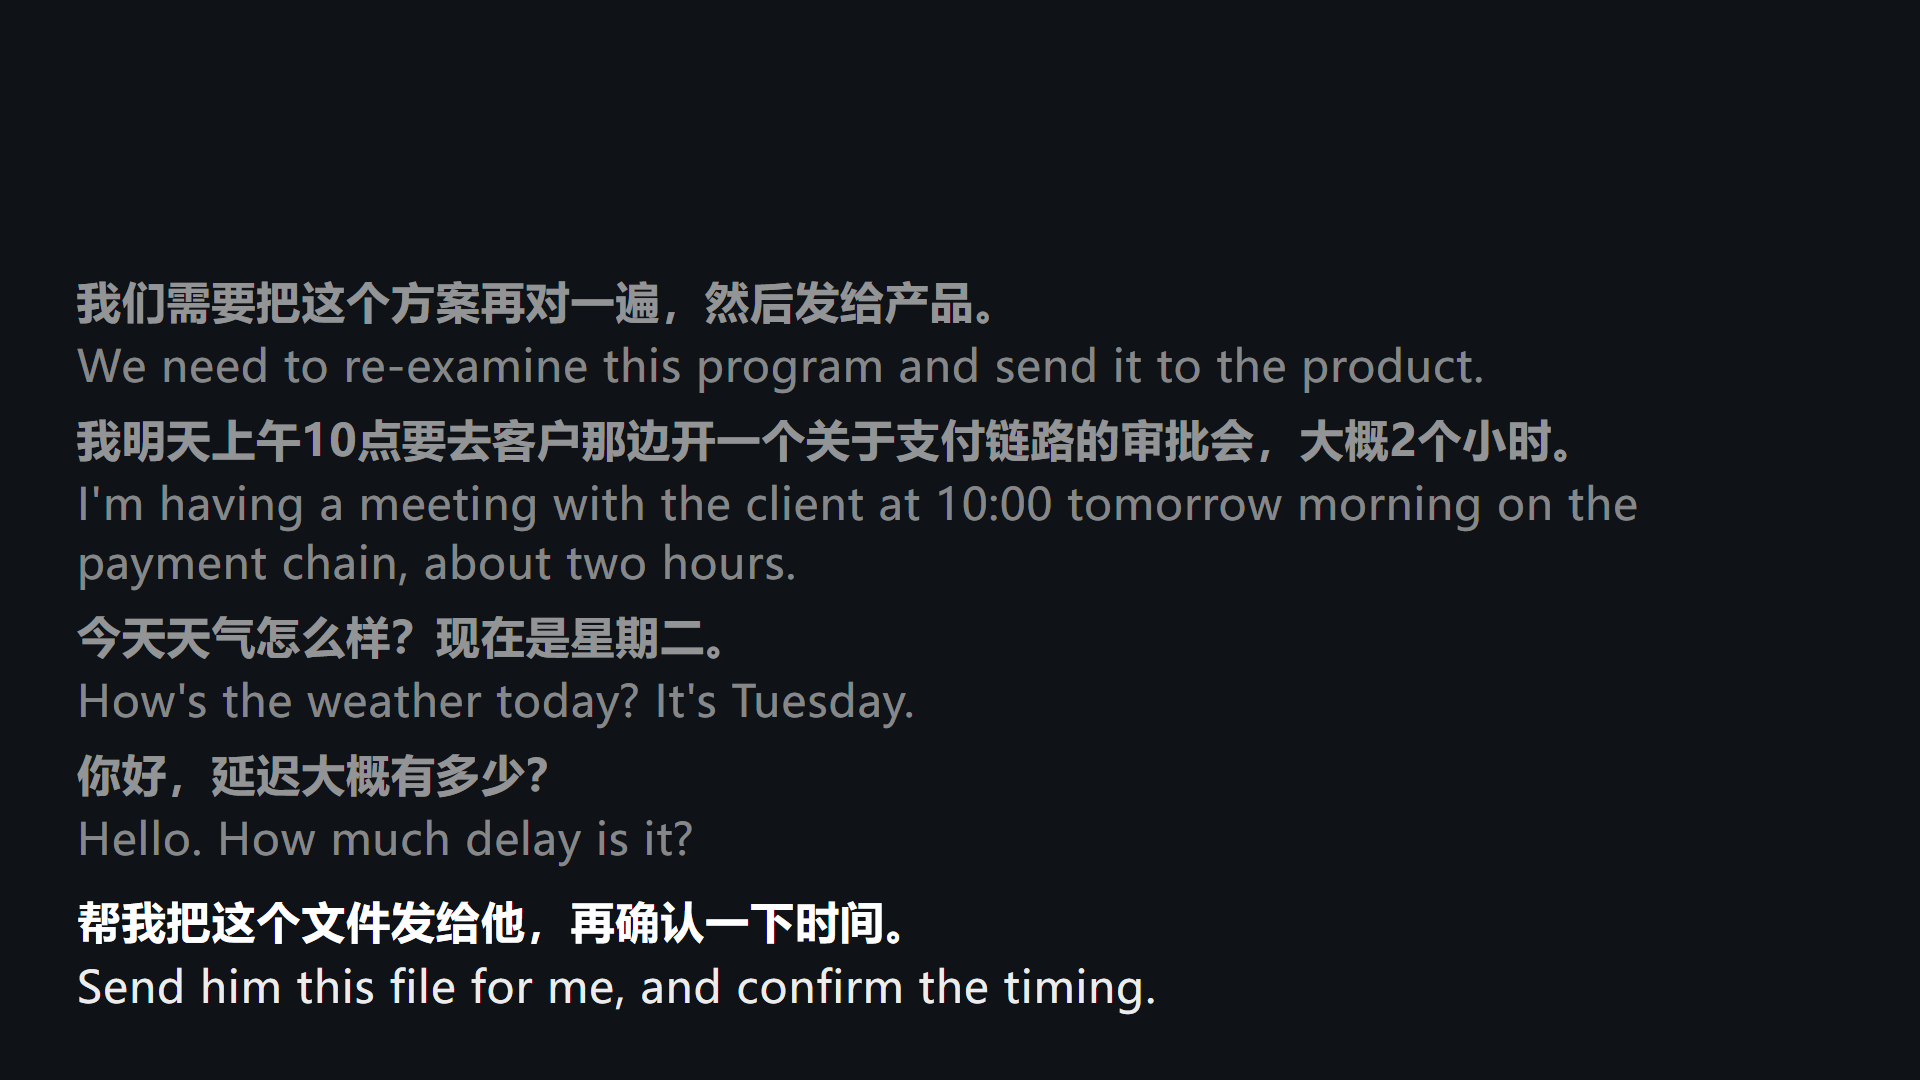
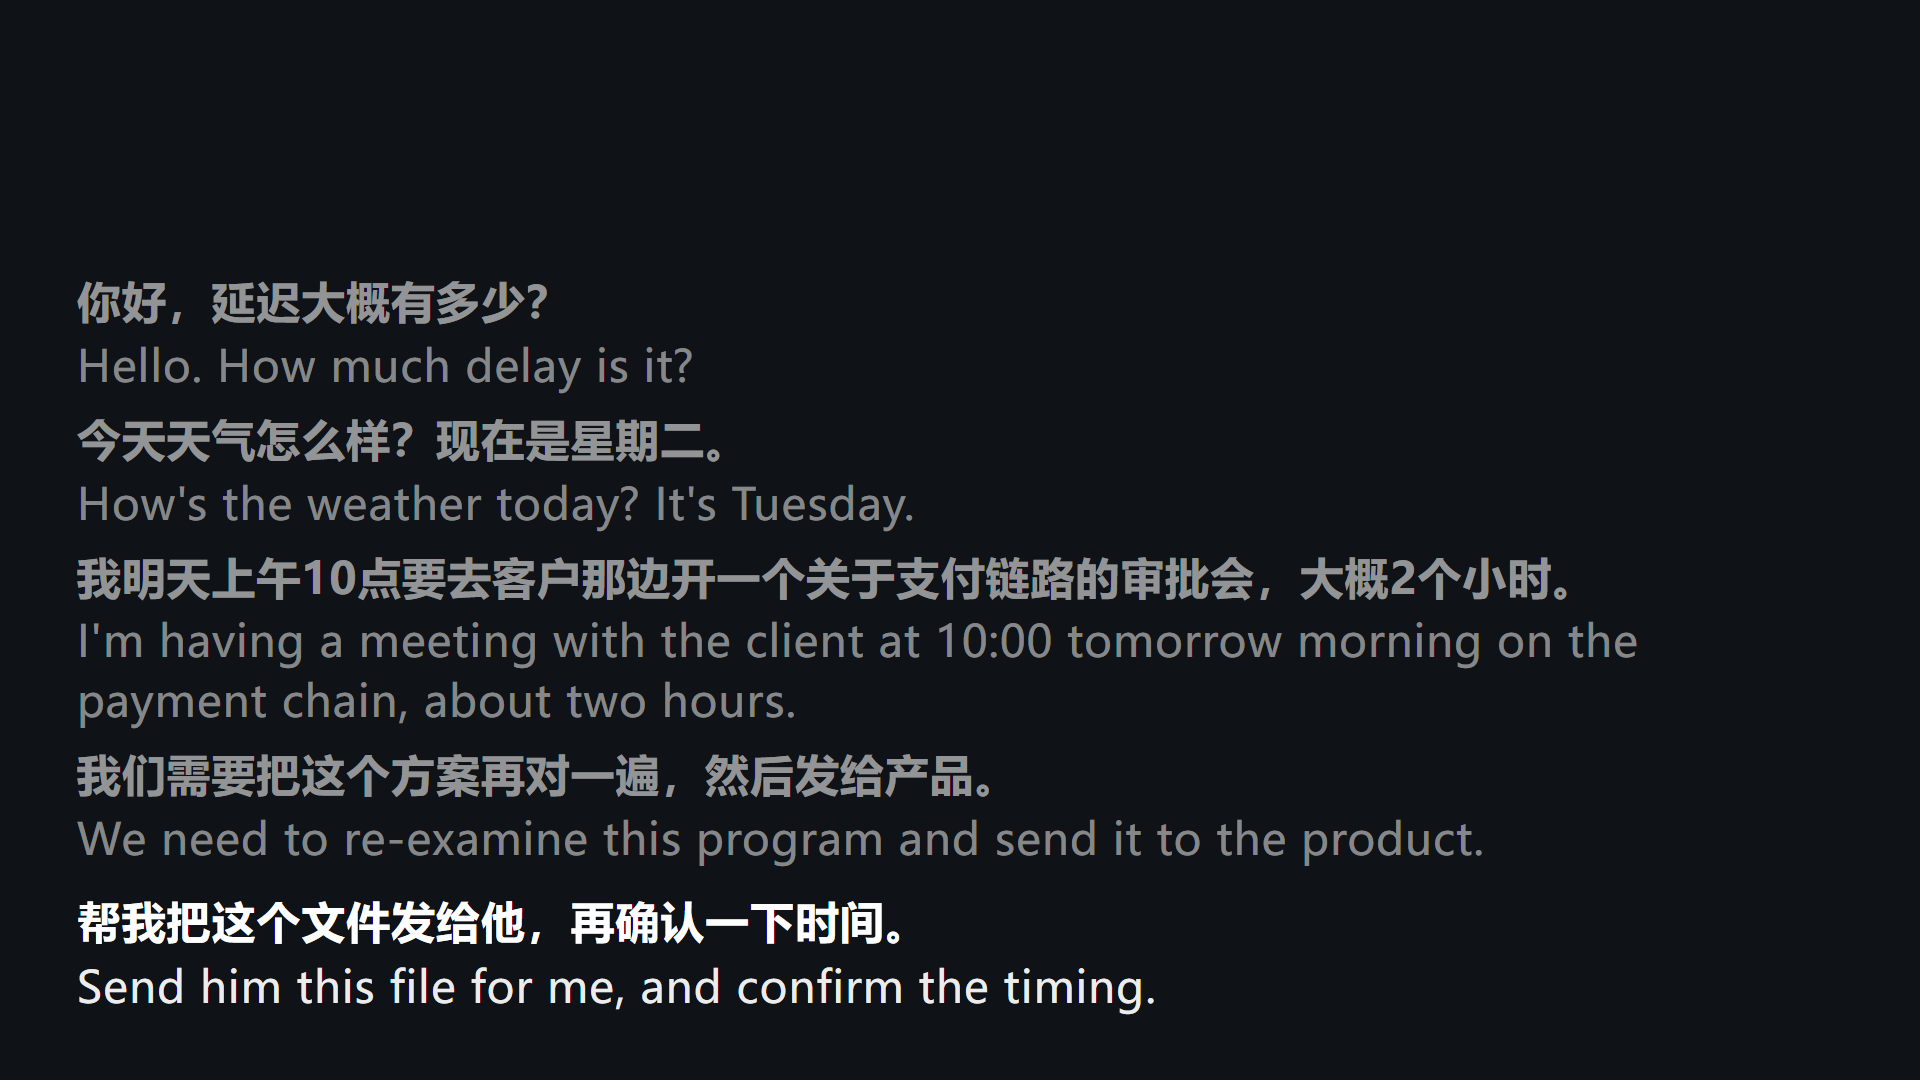
fix(sub): order history oldest-first to match bottom-anchored current

Changed region(s): [[0.0312, 0.2444, 0.875, 0.6722], [0.0312, 0.7028, 0.7812, 0.7944]]

diff --git a/tests/test_subtitle_render.py b/tests/test_subtitle_render.py
@@ -1,4 +1,4 @@
-"""字幕页 render：final 去重；idle/speaking 保留 last。"""
+"""字幕页 render：final 去重；idle/speaking 保留 last；历史旧→新。"""
 from __future__ import annotations
 
 from app.subtitle import render
@@ -17,6 +17,7 @@ def test_render_hist_skips_same_t_as_last() -> None:
     assert view["curZh"] == last["zh"]
     assert view["curEn"] == last["en"]
     assert view["histRows"] == [older]
+    assert view["histRows"][-1] == older  # 紧挨 last 的上一句
     assert all(h.get("t") != last["t"] for h in view["histRows"])
 
 
@@ -33,8 +34,8 @@ def test_render_idle_clears_current() -> None:
     )
     assert view["curZh"] == ""
     assert view["curEn"] == ""
-    assert view["histRows"][0]["zh"] == "对。我觉得可以。"
-    assert view["histRows"] == [last, older]
+    assert view["histRows"] == [older, last]
+    assert view["histRows"][-1] == last
 
 
 def test_render_speaking_keeps_last_in_history() -> None:
@@ -50,6 +51,7 @@ def test_render_speaking_keeps_last_in_history() -> None:
     assert view["curZh"] == "今天天气"
     assert view["curEn"] == ""
     assert view["histRows"] == [last]
+    assert view["histRows"][-1] == last
 
 
 def test_render_speaking_uses_partial() -> None:
@@ -97,7 +99,7 @@ def test_writer_finals_get_unique_t(tmp_path) -> None:  # noqa: ANN001
         assert len(ts) == len(set(ts))
         view = render(data)
         assert len(view["histRows"]) == 1
-        assert view["histRows"][0]["zh"] == "A。"
+        assert view["histRows"][-1]["zh"] == "A。"
         assert view["curZh"] == "B。"
     finally:
         w.close()

diff --git a/scripts/subtitle_server.py b/scripts/subtitle_server.py
@@ -71,6 +71,7 @@ _HTML = r"""<!DOCTYPE html>
     overflow: hidden;
     display: flex;
     flex-direction: column;
+    justify-content: flex-end;
     gap: 0.55em;
     opacity: 0.55;
     font-size: calc(clamp(22px, 3.6vw, 44px) * 0.62);
@@ -100,7 +101,7 @@ _HTML = r"""<!DOCTYPE html>
       .replace(/&/g, "&amp;").replace(/</g, "&lt;").replace(/>/g, "&gt;");
   }
 
-  /** 与 app.subtitle.render 对齐：仅 final 时跳过 h.t === last.t */
+  /** 与 app.subtitle.render 对齐：仅 final 跳过 last.t；展示旧→新 */
   function render(st) {
     var state = (st && st.state) || "idle";
     var partial = (st && st.partial_zh) || "";
@@ -120,7 +121,8 @@ _HTML = r"""<!DOCTYPE html>
       if (skipT != null && h.t === skipT) continue;
       histRows.push(h);
     }
-    histRows = histRows.slice(0, 5);
+    histRows.reverse();
+    histRows = histRows.slice(-5);
     return { curZh: curZh, curEn: curEn, histRows: histRows };
   }
 

diff --git a/app/subtitle.py b/app/subtitle.py
@@ -68,8 +68,8 @@ def render(state: dict[str, Any] | None) -> dict[str, Any]:
         if skip_t is not None and h.get("t") == skip_t:
             continue
         hist_rows.append(h)
-    # idle 可能多出一行（含 last）；与 final 统一截到 5 条
-    hist_rows = hist_rows[: _HISTORY_MAX - 1]
+    # 展示顺序旧→新（贴底当前行之上是最新历史）；契约 history 仍新在前
+    hist_rows = list(reversed(hist_rows))[-(_HISTORY_MAX - 1) :]
 
     return {"curZh": cur_zh, "curEn": cur_en, "histRows": hist_rows}
 
